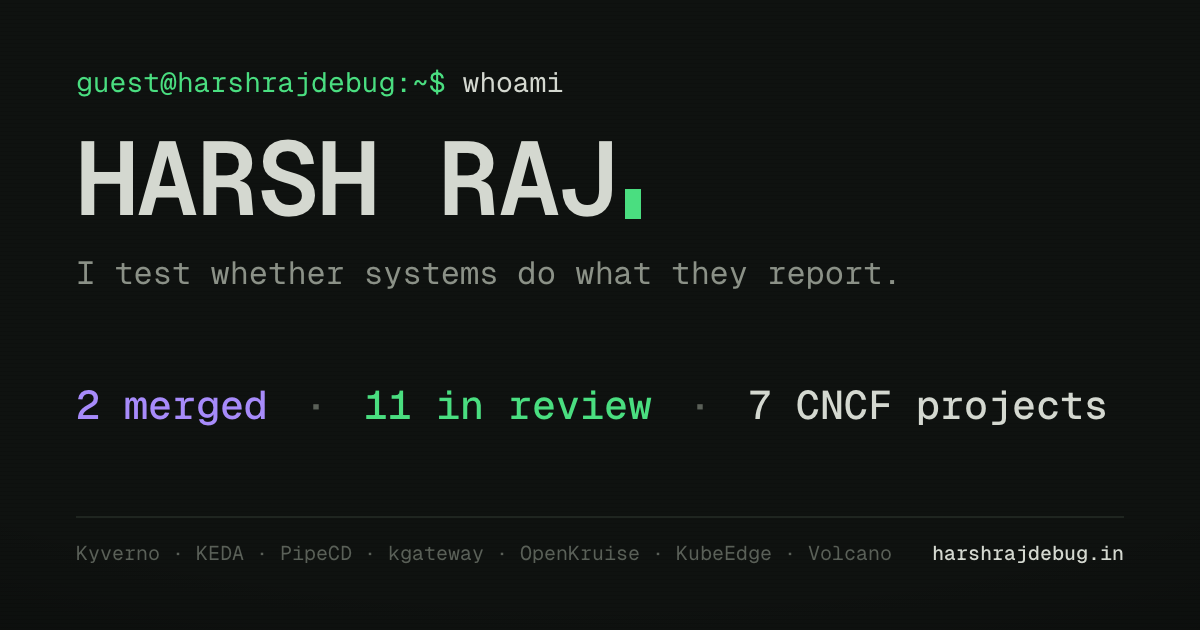
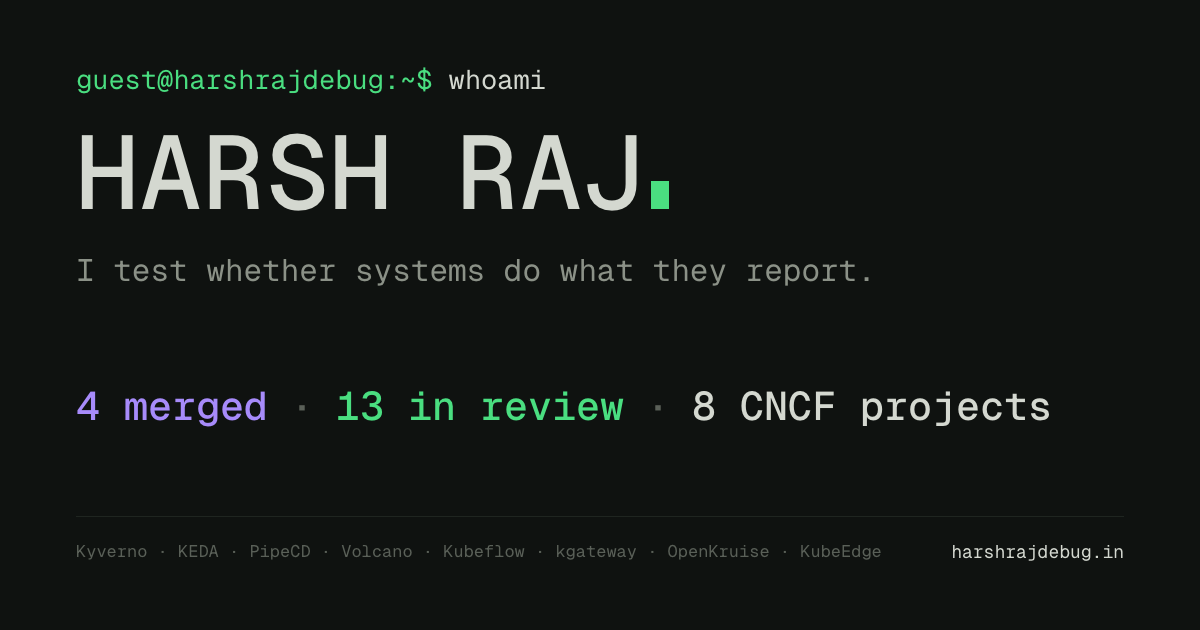
Add the Volcano, Kubeflow, PipeCD and Kyverno fixes; count 4 merged, 13 in review

diff --git a/index.html b/index.html
@@ -4,16 +4,16 @@
 <meta charset="utf-8">
 <meta name="viewport" content="width=device-width, initial-scale=1, viewport-fit=cover">
 <title>HARSH_RAJ // SYS.PORTFOLIO</title>
-<meta name="description" content="Harsh Raj tests whether systems do what they report. Nine findings in CNCF projects, each one a status that said one thing while the system did another.">
+<meta name="description" content="Harsh Raj tests whether systems do what they report. Fifteen findings in CNCF projects, each one a status that said one thing while the system did another.">
 <meta name="theme-color" content="#0f1210">
 <meta property="og:title" content="HARSH_RAJ // SYS.PORTFOLIO">
-<meta property="og:description" content="Nine findings in CNCF projects, each one a status that said one thing while the system did another.">
+<meta property="og:description" content="Fifteen findings in CNCF projects, each one a status that said one thing while the system did another.">
 <meta property="og:url" content="https://harshrajdebug.in/">
 <meta property="og:type" content="website">
 <meta property="og:image" content="https://harshrajdebug.in/og.png">
 <meta property="og:image:width" content="1200">
 <meta property="og:image:height" content="630">
-<meta property="og:image:alt" content="Harsh Raj -- 2 merged, 11 in review">
+<meta property="og:image:alt" content="Harsh Raj -- 4 merged, 13 in review">
 <meta name="twitter:card" content="summary_large_image">
 <meta name="twitter:image" content="https://harshrajdebug.in/og.png">
 <link rel="canonical" href="https://harshrajdebug.in/">
@@ -36,7 +36,7 @@
     </dl>
     <dl class="sys__col sys__col--r">
       <div><dt>STATUS</dt><dd class="ok">200</dd></div>
-      <div><dt>CLAIMS</dt><dd><span id="sys-claims">9</span> CHECKED</dd></div>
+      <div><dt>CLAIMS</dt><dd><span id="sys-claims">15</span> CHECKED</dd></div>
       <div><dt>LOCAL</dt><dd id="sys-clock">IST</dd></div>
     </dl>
   </header>
@@ -65,8 +65,8 @@
       <dl class="kv">
         <div><dt>LOCATION</dt><dd>Dehradun, India -- IST, UTC+05:30</dd></div>
         <div><dt>FOCUS</dt><dd>Kubernetes controllers -- admission webhooks -- status that lies -- supply chain</dd></div>
-        <div><dt>MERGED</dt><dd class="ok">Kyverno -- KEDA</dd></div>
-        <div><dt>ACTIVE_IN</dt><dd>PipeCD -- kgateway -- OpenKruise -- KubeEdge -- Volcano</dd></div>
+        <div><dt>MERGED</dt><dd class="ok">Kyverno -- KEDA -- PipeCD</dd></div>
+        <div><dt>ACTIVE_IN</dt><dd>Volcano -- Kubeflow -- PipeCD -- kgateway -- OpenKruise -- KubeEdge</dd></div>
         <div><dt>CONTACT</dt><dd><a href="mailto:harshrajdebug@gmail.com">harshrajdebug@gmail.com</a></dd></div>
         <div><dt>OPEN_TO_WORK</dt><dd class="ok">TRUE -- internships</dd></div>
       </dl>
@@ -74,10 +74,11 @@
       <p class="cmd"><span class="ps">$</span> cat record.txt</p>
       <dl class="kv kv--wide">
         <div><dt>KYVERNO</dt><dd><span class="rt rt--merged">MERGED</span> a policy check that passed while checking nothing <a class="pr" href="https://github.com/kyverno/kyverno/pull/17608" target="_blank" rel="noopener">#17608</a></dd></div>
-        <div><dt>KEDA</dt><dd><span class="rt rt--merged">MERGED</span> a connection pool that never let go <a class="pr" href="https://github.com/kedacore/keda/pull/8193" target="_blank" rel="noopener">#8193</a></dd></div>
+        <div><dt>KEDA</dt><dd><span class="rt rt--merged">MERGED</span> a connection pool that never let go <a class="pr" href="https://github.com/kedacore/keda/pull/8193" target="_blank" rel="noopener">#8193</a> <a class="pr" href="https://github.com/kedacore/keda/pull/8213" target="_blank" rel="noopener">#8213</a></dd></div>
+        <div><dt>PIPECD</dt><dd><span class="rt rt--merged">MERGED</span> a rollback reported as synced while still running the old revision <a class="pr" href="https://github.com/pipe-cd/pipecd/pull/7412" target="_blank" rel="noopener">#7412</a></dd></div>
         <div><dt>OPENKRUISE</dt><dd><span class="rt rt--review">REVIEW</span> of another author's PR, acted on: two credential leaks in the proxy logs <a class="pr" href="https://github.com/openkruise/agents/pull/958" target="_blank" rel="noopener">#958</a></dd></div>
         <div><dt>PIPECD</dt><dd><span class="rt rt--review">REVIEW</span> of another author's PR, acted on: the cancel test was watching the wrong process <a class="pr" href="https://github.com/pipe-cd/pipecd/pull/7320" target="_blank" rel="noopener">#7320</a></dd></div>
-        <div><dt>IN_REVIEW</dt><dd><span class="rt">OPEN</span> eleven more pull requests -- see <a href="#work" data-go="work">02._WORK</a></dd></div>
+        <div><dt>IN_REVIEW</dt><dd><span class="rt">OPEN</span> thirteen more pull requests -- see <a href="#work" data-go="work">02._WORK</a></dd></div>
       </dl>
 
       <p class="tip">TIP: <kbd>↑</kbd><kbd>↓</kbd> to navigate -- type <b>help</b> for commands</p>
@@ -85,7 +86,7 @@
 
     <section class="page" id="page-work" data-page="work" aria-labelledby="h-work">
       <p class="cmd"><span class="ps">$</span> <span id="h-work">ls -la /findings/</span></p>
-      <p class="dim">9 entries -- click a filename to expand -- click [OPEN] to read the case -- state is live from GitHub</p>
+      <p class="dim">15 entries -- click a filename to expand -- click [OPEN] to read the case -- state is live from GitHub</p>
       <div class="table" role="table" aria-label="Findings">
         <div class="row row--hdr" role="row"><span role="columnheader">NAME</span><span role="columnheader">PROJECT</span><span role="columnheader">STATE</span><span role="columnheader">CLAIMED</span><span role="columnheader">DESCRIPTION</span></div>
         <div id="files" role="rowgroup"></div>
@@ -105,7 +106,7 @@
         <p>The bug I keep finding is the same one wearing different clothes: a system reports a state it is not in. A policy engine says <b>pass</b> after checking zero resources. A gateway marks a policy <b>Accepted</b> while Envoy rejects the backend. A rollback says <b>Synced</b> while the old revision runs.</p>
         <p>Nobody files these, because nothing looks broken. The dashboard is green. So I read the status, then go and look at what actually happened -- the goroutine count, the Envoy config, the task set tag -- and write down the difference.</p>
         <p>Every fix I send comes with the measurement that shows the gap. A claim I can't reproduce doesn't get posted.</p>
-        <p class="dim">Merged in Kyverno and KEDA, with fixes in review at PipeCD, kgateway, OpenKruise, KubeEdge and Volcano. Looking for internships.</p>
+        <p class="dim">Merged in Kyverno, KEDA and PipeCD, with fixes in review at Volcano, Kubeflow, kgateway, OpenKruise and KubeEdge. Looking for internships.</p>
         <p><a href="mailto:harshrajdebug@gmail.com">harshrajdebug@gmail.com</a> -- <a href="https://github.com/harshrajdebug" target="_blank" rel="noopener">github.com/harshrajdebug</a> -- <a href="https://www.linkedin.com/in/harsh2789" target="_blank" rel="noopener">linkedin.com/in/harsh2789</a></p>
       </div>
     </section>
@@ -122,7 +123,7 @@
         <dl class="kv kv--tight"><div><dt>Company</dt><dd>SafePay</dd></div><div><dt>Dates</dt><dd>2025.06 -- 2025.07</dd></div></dl>
         <ul class="dash"><li>Triaged 50+ SIEM alerts by correlating event metadata, assets, severity and indicators of compromise.</li><li>Ran Nmap and OpenVAS assessments that surfaced 15+ exposed services and misconfigurations, and wrote the triage playbooks the team adopted.</li></ul>
         <h2 class="c">// open source</h2>
-        <ul class="dash"><li>Merged: Kyverno #17608 (backported as #17612), KEDA #8193.</li><li>In review: PipeCD #7443, #7440 and #7412, kgateway #14749 and #14760, Kyverno #17620, KEDA #8213, OpenKruise #1001, KubeEdge #7306 and #7307, Volcano #6002.</li><li>Reviews acted on: OpenKruise #958, PipeCD #7320.</li></ul>
+        <ul class="dash"><li>Merged: Kyverno #17608 (backported as #17612), KEDA #8193 and #8213, PipeCD #7412.</li><li>In review: Volcano #6046 and #6002, PipeCD #7443 and #7440, Kyverno #17620, #17831 and #17838, Kubeflow #4155, kgateway #14749 and #14760, OpenKruise #1001, KubeEdge #7306 and #7307.</li><li>Reviews acted on: OpenKruise #958, PipeCD #7320.</li></ul>
         <h2 class="c">// skills</h2>
         <ul class="dash"><li><b>Languages:</b> Go -- Python -- C++ -- Java -- SQL -- Bash -- JavaScript</li><li><b>Cloud native:</b> Kubernetes -- controller-runtime -- admission webhooks -- CRDs -- Helm -- kind -- Envoy -- gRPC -- Prometheus</li><li><b>Security:</b> OAuth 2.0 / OIDC -- PKI -- Sigstore / Cosign -- supply chain -- Nmap -- Burp Suite -- SIEM -- digital forensics</li><li><b>ML:</b> PyTorch -- Transformers -- scikit-learn -- RAG</li><li><b>Testing:</b> Ginkgo / Gomega -- pytest -- Playwright -- root cause analysis</li></ul>
       </div>
@@ -149,6 +150,6 @@
 </div>
 
 <noscript><p class="noscript">Harsh Raj -- harshrajdebug@gmail.com -- github.com/harshrajdebug</p></noscript>
-<script src="term.js?v=3"></script>
+<script src="term.js?v=4"></script>
 </body>
 </html>

diff --git a/term.js b/term.js
@@ -18,11 +18,41 @@ const FILES = [
     said: "scaler closed", did: "held connections → 5, 10, 15",
     why: "The external scaler's gRPC pool never released an entry. Its cleanup goroutine waited for the connection to reach Shutdown, but a connection only reaches Shutdown when Close() is called, and the only Close() was inside that goroutine. The scaler's own Close() returned nil. Every scaler address ever configured left a connection, a pool entry and a blocked goroutine behind.",
     fix: "Reference counting at the scaler's lifetime: acquire on construction, release on Close, and close the connection when no scaler is left using it. Measured against the real operator: held connections went 5 → 10 → 15 before, 0 → 0 → 0 after." },
-  { id: "pipecd-7412", file: "PIPECD_7412.sync", project: "PipeCD", pr: "pipe-cd/pipecd#7412", state: "open", claimed: "Synced",
+  { id: "pipecd-7412", file: "PIPECD_7412.sync", project: "PipeCD", pr: "pipe-cd/pipecd#7412", state: "merged", claimed: "Synced",
     title: "A rollback reported as synced while still running the old revision.",
     said: "application → Synced", did: "running → previous revision",
     why: "The live-state sync check compares the commit hash tag on the PRIMARY ECS task set with the latest commit. The rollback task set was tagged with the commit that had just been rolled back, so the application showed as Synced while it ran the previous revision.",
     fix: "LoadServiceDefinition takes the deployment source it loads from. The rollback stage passes the running source, so its task set carries the running commit; sync, primary and canary are unchanged." },
+  { id: "volcano-6046", file: "VOLCANO_6046.reclaim", project: "Volcano", pr: "volcano-sh/volcano#6046", state: "open", claimed: "reclaiming",
+    title: "A reclaim that evicted the same job over and over and never placed the one it was for.",
+    said: "gangreclaim → reclaiming", did: "evictions → 157 a minute",
+    why: "With the scheduler config from the v1.15.0 release notes, gangreclaim had no plugin that orders queues or reports them overused, so nothing defined a queue's share. It evicted a lower-priority job in another queue, the evicted Pods were recreated and allocated straight back to their own queue, and the next session evicted them again. On a live cluster: 157 evictions in 60 seconds, the victim job repeatedly at 0 running Pods, and the high-priority job never placed.",
+    fix: "gangreclaim now skips when no enabled plugin orders queues or reports them overused, which covers proportion, capacity, drf with hierarchy and extender. Verified on a patched v1.15.3 cluster: 0 evictions with the release notes config, unchanged behaviour with capacity." },
+  { id: "pipecd-7443", file: "PIPECD_7443.stage", project: "PipeCD", pr: "pipe-cd/pipecd#7443", state: "open", claimed: "resume",
+    title: "Restarting piped cancelled the deployment and ran the rollback.",
+    said: "piped restarted → resume", did: "deployment → cancelled, rolled back",
+    why: "The stop signal cancels a stage's context for a cancel, a timeout and a termination alike, so the error was always context.Canceled and every stage stopped mid-run was reported as STAGE_CANCELLED. After piped restarted, the scheduler found the cancelled stage, marked the deployment cancelled and ran the rollback stages.",
+    fix: "Take the stage status from the stop signal: a termination keeps the original status, a timeout fails the stage, and a cancel still cancels it. A test restarts the scheduler mid-stage and checks the stage runs again and the rollback does not." },
+  { id: "pipecd-7440", file: "PIPECD_7440.lock", project: "PipeCD", pr: "pipe-cd/pipecd#7440", state: "open", claimed: "cancelled",
+    title: "A cancelled Terraform stage that left the state lock held.",
+    said: "stage → cancelled", did: "state lock → still held",
+    why: "Cancelling a Terraform stage killed terraform apply. On a backend that locks the state remotely, the lock stayed held and resources not yet saved were dropped from the state, so the next plan or apply failed on the held lock.",
+    fix: "Interrupt terraform with SIGINT on cancel and kill it only after a one-minute grace period. Run against a real locking backend with terraform 1.16.4: the lock is released, the resource is recorded, and the next plan works." },
+  { id: "kubeflow-4155", file: "KUBEFLOW_4155.name", project: "Kubeflow", pr: "kubeflow/trainer#4155", state: "open", claimed: "Created",
+    title: "OptimizationJob names the controller accepted and then could not use.",
+    said: "job → Created", did: "trials → rejected",
+    why: "OptimizationJob had no rule on its name, but the controller copies it into TrainJob, Service and label names that have stricter rules. A leading digit got every trial rejected while the job showed Created, a dot got the Service rejected, a name over 63 characters failed the Deployment's label, and none of them ever set a Failed condition. Two long names sharing their first 46 characters also shared one algorithm Service, and the first job to finish deleted it.",
+    fix: "Apply the TrainJob name rules to OptimizationJob, and add a hash of the full name when a long name is cut, so each job gets its own algorithm Service." },
+  { id: "kyverno-17831", file: "KYVERNO_17831.scope", project: "Kyverno", pr: "kyverno/kyverno#17831", state: "open", claimed: "fail",
+    title: "Namespaced policies judging resources in other namespaces.",
+    said: "team-b pod → fail", did: "policy scope → team-a only",
+    why: "The CLI evaluated namespaced CEL policies against resources in every namespace. A NamespacedValidatingPolicy in team-a failed Pods in team-b, and the mutating, image validating and deleting kinds did the same. In a cluster a namespaced policy only ever sees its own namespace, so kyverno apply and kyverno test reported results that cannot happen at admission.",
+    fix: "Pass the same namespace predicate the admission handlers already use, at all four CLI call sites." },
+  { id: "kyverno-17838", file: "KYVERNO_17838.count", project: "Kyverno", pr: "kyverno/kyverno#17838", state: "open", claimed: "pass: 2",
+    title: "One mutation counted, printed and written twice.",
+    said: "summary → pass: 2", did: "mutations applied → 1",
+    why: "kyverno apply counted every MutatingPolicy response twice, once directly and once inside the function that also prints it, so one mutated resource reported pass: 2 and one error reported error: 2. The empty response for a Pod policy's autogen copy also printed the unchanged resource again and appended it to the -o output file.",
+    fix: "Count each response once and only print and write responses that carry rules. Tests cover pass, skip and error, and kyverno apply -o end to end." },
   { id: "kgateway-14749", file: "KGATEWAY_14749.ca", project: "kgateway", pr: "kgateway-dev/kgateway#14749", state: "open", claimed: "Accepted",
     title: "A policy that said Accepted while Envoy rejected the backend.",
     said: "policy → Accepted", did: "envoy → cluster rejected",
